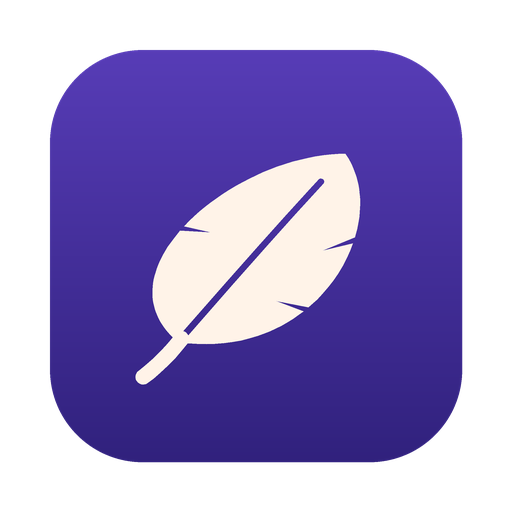
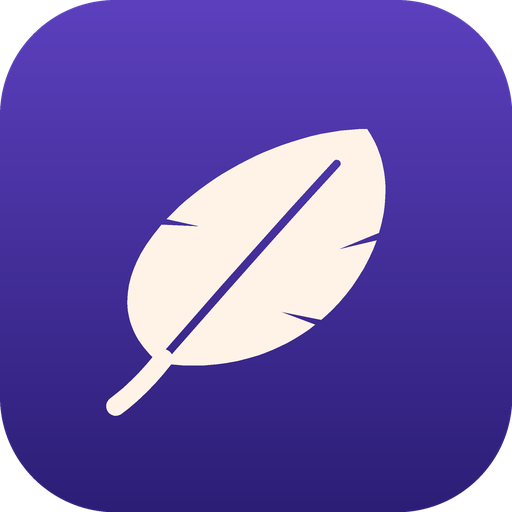
feat(desktop): ikona pro Windows bez okraje macOS
play/tools/icon.py kreslil všechny desktopové ikony podle mřížky ikon macOS
(plocha 824 z 1024). Windows ale kreslí ikonu na hlavním panelu, u hodin
i v toastu do celého čtverce, takže byla Plume menší než ostatní aplikace.
plume.ico a plume-icon.png jsou teď bez okraje se stejně zaoblenými rohy;
.icns a Linuxové plume.png zůstávají podle mřížky macOS (vyšly beze změny).

diff --git a/play/tools/icon.py b/play/tools/icon.py
@@ -139,15 +139,19 @@ def vector(size=108, reach_dp=31, color="#FFF3E8", shaft_width=0.009, box=False)
 """
 
 
-def desktop(size):
+def desktop(size, margin=True):
     """Ikona pro desktop: zaoblený čtverec s průhlednými rohy.
 
-    Na rozdíl od mobilů ji nikdo neořezává maskou — tvar si nese sama. Rozměry podle mřížky
-    ikon macOS (plocha 824 z 1024, poloměr rohu 185, zbytek okraj na stín a optické vyrovnání);
-    Windows i Linux berou čtvercový obrázek s alfou, takže se hodí i tam.
+    Na rozdíl od mobilů ji nikdo neořezává maskou — tvar si nese sama. S `margin` rozměry podle
+    mřížky ikon macOS (plocha 824 z 1024, poloměr rohu 185, zbytek okraj na stín a optické
+    vyrovnání) — pro Dock a Linux. Bez něj plocha až do kraje se stejně zaoblenými rohy: Windows
+    kreslí ikonu na hlavním panelu, u hodin i v toastu do celého čtverce a s okrajem macOS byla
+    Plume viditelně menší než ostatní aplikace.
     """
     n = size * 4
-    inset, radius = round(n * 100 / 1024), round(n * 185 / 1024)
+    inset = round(n * 100 / 1024) if margin else 0
+    # Poloměr rohu je tentýž podíl PLOCHY (185 z 824), ne celého obrázku.
+    radius = round((n - 2 * inset) * 185 / 824)
     plate = Image.new("L", (n, n), 0)
     ImageDraw.Draw(plate).rounded_rectangle([inset, inset, n - inset, n - inset], radius=radius, fill=255)
     im = gradient(n, n).convert("RGBA")
@@ -161,10 +165,13 @@ def write_desktop():
     icons.mkdir(parents=True, exist_ok=True)
     big = desktop(1024)
     # ICO: Windows vybírá podle velikosti (Průzkumník, hlavní panel, Start); 256 je největší.
-    big.save(icons / "plume.ico", sizes=[(s, s) for s in (16, 24, 32, 48, 64, 128, 256)])
+    # Bez okraje macOS — Windows kreslí ikonu do celého čtverce.
+    desktop(1024, margin=False).save(icons / "plume.ico", sizes=[(s, s) for s in (16, 24, 32, 48, 64, 128, 256)])
     big.save(icons / "plume.icns")
     desktop(512).save(icons / "plume.png")
-    desktop(512).save(ROOT / "client/desktopApp/src/main/resources/plume-icon.png")
+    # Ikona okna, oznamovací oblasti a toastů: na macOS ji nikdo neukazuje (Dock bere .icns),
+    # takže jde rovnou bez okraje pro Windows.
+    desktop(512, margin=False).save(ROOT / "client/desktopApp/src/main/resources/plume-icon.png")
 
 
 if __name__ == "__main__":

diff --git a/docs/poznatky/desktop.md b/docs/poznatky/desktop.md
@@ -306,8 +306,18 @@ postaví MSI (`packageMsi -PdesktopVersion=…`), na Ubuntu založí GitHub Rele
   balíčku jdou na Windows přes `msiSafe` (bez diakritiky, když se do cp1252 nevejde).
 - **Ikony** (`client/desktopApp/icons/plume.{ico,icns,png}` a ikona okna) generuje
   `play/tools/icon.py desktop` z téže geometrie pírka jako ostatní platformy: zaoblený čtverec
-  s průhlednými rohy podle mřížky ikon macOS (824/1024, poloměr 185). ICO nese velikosti
-  16–256, Windows si vybírá podle místa (hlavní panel, Start, Průzkumník).
+  s průhlednými rohy. ICO nese velikosti 16–256, Windows si vybírá podle místa (hlavní panel,
+  Start, Průzkumník).
+  - **Okraj jen pro macOS a Linux.** `.icns` a `plume.png` jdou podle mřížky ikon macOS (plocha
+    824 z 1024 a okraj na stín), protože Dock s okrajem počítá. **`.ico` a `plume-icon.png`
+    jsou bez okraje** (`desktop(…, margin=False)`, poloměr rohu je týž podíl plochy): Windows
+    kreslí ikonu na hlavním panelu, u hodin i v toastu do celého čtverce a s okrajem macOS
+    byla Plume viditelně menší než ostatní aplikace (ověřeno snímkem hlavního panelu).
+    `plume-icon.png` na macOS nikdo neukazuje (Dock bere `.icns`), takže může být rovnou
+    pro Windows.
+  - Bez `shapely` v systému a bez `uv`: dočasné venv (`py -m venv …`, `pip install pillow
+    shapely`) a skript jeho Pythonem. Výstup je deterministický — co se nezměnilo, vyjde bajt
+    po bajtu stejně.
 
 ## Cesty k souborům na Windows
 

diff --git a/release-notes/feat-desktop-ikona-bez-okraje.md b/release-notes/feat-desktop-ikona-bez-okraje.md
@@ -1,0 +1,3 @@
+type: feat
+cs: Ikona Plume na Windows je velká jako ikony ostatních aplikací
+en: The Plume icon on Windows is as large as other apps’ icons
